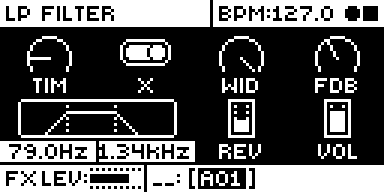
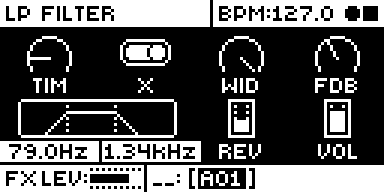
Filter Hz 1.3.0: LPF's lock box and text two pixels right
HPF and LPF are 32 pixels apart, so their 33-pixel boxes shared a column
that stock's inversion turned black, taking LPF's left margin. LPF's box
(x-14..x+18) and its locked text now sit two pixels right: a black
column parts the boxes and every text keeps white on both sides.
Tested on the unit (FL03) and in the emulator over every LPF value.

Changed region(s): [[0.25, 0.7188, 0.5312, 0.8438]]

diff --git a/sdk/analog-rytm-mkii/modules/filter-hz/TESTING.md b/sdk/analog-rytm-mkii/modules/filter-hz/TESTING.md
@@ -12,7 +12,9 @@ the audio interrupt's 1,500 blocks a second of 32 frames (rytm-emu) and the Over
 measured on hardware, 48000.4 Hz (rytm-emu's OVERBRIDGE.md).
 
 - Independent code review (asm gate, fixed-point bounds, table indexes, view walk, no libgcc
-  calls): no defects; one comment corrected.
+  calls): no defects; one comment corrected. A second review of the box table and the text site
+  (stack offsets at both sites, live registers, both paths into `0x40037b9c`, the table walk for
+  ids above 255, 0 and absent ones, alignment, branches into the patch): no defects.
 - Host check: `fx-hz.c` compiled on the host against the two tables gives the same text as a
   floating-point reference of the same equations at every index 0..1016 (HPF, LPF) and every FRQ
   value 0..127.
@@ -22,14 +24,24 @@ measured on hardware, 48000.4 Hz (rytm-emu's OVERBRIDGE.md).
   RECORDING, trig 1 held, one nudge): 2,560 frames. The text read back from every 1.3.0 frame is
   the expected one (HPF 5.00Hz..12.0kHz, LPF 5.00Hz..OPEN from 113, FRQ 974Hz..14.0kHz); every
   locked value is in a 33-pixel box (x−16..x+16) with at least a pixel of box either side and
-  nothing outside it. 1.2.1's frames show stock's numbers in stock's 27-pixel boxes. Locked HPF
-  and LPF boxes meet at one column, which shows as a one-pixel divider ([report](evidence/emulator-1.3.0.json)).
+  nothing outside it. 1.2.1's frames show stock's numbers in stock's 27-pixel boxes ([report](evidence/emulator-1.3.0.json)).
+- HPF and LPF locked together: on FX02 and FL01 the two 33-pixel boxes shared a column, which
+  stock's inversion turned black and which took LPF's left margin (`1.44kHz` in 33..62 of a box
+  33..64). LPF's box and its locked text now sit two pixels right (x−14..x+18). Emulator, FL03 (a
+  Modwerk base development build + this version, `662563cf…0e4e`) against FL01 (`beb2a227…3b6e`):
+  HPF locked at 0 and at 96 by CC, LPF locked at every value 0..127, DELAY and REVERB, 512 frames.
+  FL03: boxes at 0..32 and 34..66 every time, a black column at 33, a pixel of white or more each
+  side of every text; LPF's text pixel for pixel FL01's moved two right, HPF's and the rest of the
+  screen unchanged. FL01: 14 to 33 frames per set with no white left of LPF's text. Unlocked values
+  and PERFORMANCE edit (stock's small boxes) are unchanged: the rig's turn and perf screens equal
+  FL01's references.
 - LPF follows a lock: track HPF 0, trig 1 held, HPF locked at 39 (79.0Hz) and LPF at 40: LPF reads
-  1.34kHz, the corner for 39 + 40, not 84.8Hz (`media/delay-locked.png`). Locked the other way round
+  1.34kHz, the corner for 39 + 40, not 84.8Hz (`media/delay-locked.png`, FZ80). Locked the other way round
   (LPF first, then HPF moved), LPF's box follows HPF on the next frame.
-- FILTER page: 1.2.1's four capture plans on FZ79 (core-ar2 0.3 + 1.3.0, `96cec08b…21bf`) give
-  `filter-page.png`, `frq-440hz.png`, `frq-open.png` and `frq-locked.png` byte for byte.
-- Memory: 1,673 bytes (`.run`; 302 in 1.2.1).
+- FILTER page: 1.2.1's four capture plans on FZ80 (core-ar2 0.3 + 1.3.0, `b9bedf5e…f55f`) give
+  `filter-page.png`, `frq-440hz.png`, `frq-open.png` and `frq-locked.png` byte for byte, and
+  `reverb-frq.png` is FZ79's byte for byte too.
+- Memory: 1,745 bytes (`.run`; 302 in 1.2.1).
 - SCENE and PERFORMANCE edit (FZ79 against FH04): stock keeps a held trig's, a scene's and a
   performance macro's locks behind one lock interface, which the knob text and LPF's HPF read the
   same way. Scene 1 in edit, its pad held, DELAY HPF (38) and LPF (40) turned one step: 79.0Hz and
@@ -38,18 +50,23 @@ measured on hardware, 48000.4 Hz (rytm-emu's OVERBRIDGE.md).
   39 and 41. Performance macro 1 in edit, DELAY and REVERB: both builds show stock's signed depth
   (DELAY +5, −2; REVERB FRQ +1, HPF +2, LPF −1), which is not a frequency and stays a number.
 - Hardware, 2026-11-15, run by an automated test link on npp1993's Analog Rytm MKII (OS 1.74),
-  screens read back from the unit, not judged by a person: FL01 (a Modwerk base development build
-  + 1.3.0, `beb2a227…3b6e`, image CRC `38c7eea1`) booted from RAM in a scratch project. Six cases,
-  each run twice, 6 of 6 passing both times ([hardware report](evidence/hardware-testing-1.3.0.json)):
+  screens read back from the unit, not judged by a person: FL03 (a Modwerk base development build
+  + 1.3.0, `662563cf…0e4e`, image CRC `850a1eba`) booted from RAM in a scratch project. Seven
+  cases, 7 of 7 in each of three full runs ([hardware report](evidence/hardware-testing-1.3.0.json)):
   - DELAY turned: HPF 64 463Hz, HPF 127 12.0kHz, LPF 80 (HPF 0) 1.44kHz, LPF 96 (HPF 32) OPEN.
   - REVERB turned: FRQ 64 5.85kHz, FRQ 0 974Hz, HPF 64 463Hz, LPF 80 (HPF 0) 1.44kHz.
-  - Trig lock: HPF 39 and LPF 41 on trig 1, 79.0Hz and 1.44kHz in wide boxes; track HPF then 0 and
-    LPF moved to 42 on the held trig: 1.55kHz, from the trig's HPF, not 97.7Hz.
+  - Trig lock: HPF 39 and LPF 41 on trig 1, 79.0Hz and 1.44kHz; track HPF then 0 and LPF moved
+    to 42 on the held trig: 1.55kHz, from the trig's HPF, not 97.7Hz.
+  - Two kHz locks side by side, HPF 86 and LPF 0: 2.17kHz and 2.21kHz.
   - SCENE edit, scene 1: DELAY 84.8Hz and 1.66kHz; REVERB FRQ 5.96kHz, HPF 84.8Hz, LPF 1.66kHz.
-  - PERF edit, macro 1: stock's signed depth, +8 and −5.
-  - Reported by npp1993 while watching: two locked kHz values on HPF and LPF make their boxes touch
-    (the one-pixel divider above); kept as it is, the same format as FILTER FRQ.
-- Not tested: playback while turning, other modules beside it, saving and reloading a project, a
+  - PERF edit, macro 1: stock's signed depth, +8 and −5, in stock's small boxes.
+  - Every locked HPF box is columns 0..32 and every LPF box 34..66, a black column between them,
+    at least a pixel of white each side of each text.
+- Earlier the same day FL01 (before LPF's box moved, `beb2a227…3b6e`) passed six of these cases
+  twice. npp1993, watching, saw two locked kHz values' boxes touch; the read-back screens showed
+  LPF's text with no white on its left, which FL03 fixes. Reported by npp1993: about a minute of
+  playback on FL01 while turning the FX filters had no freezes or dropouts.
+- Not tested: playback while turning on FL03 (FL01's was clean), other modules beside it, saving and reloading a project, a
   power cycle, audio (the frequencies are from the equations, not measured).
 
 ## 1.2.1 (a wider lock box for FRQ)

diff --git a/sdk/analog-rytm-mkii/modules/filter-hz/README.md b/sdk/analog-rytm-mkii/modules/filter-hz/README.md
@@ -83,13 +83,15 @@ Requires core-ar2 0.3 on OS 1.74. Use your own original stock OS 1.74 file.
   is not open (no stock screen does this today) LPF shows the stock number.
 - The 0 to 127 numbers are no longer shown for these knobs.
 
-The module patches two sites: eight bytes in `param_value_text` at `0x400a86b4`,
-the same site as the original mod, and since 1.2.1 twenty bytes at `0x40037bea` in
-stock's knob value drawing, where it pushes a locked value's box. For FRQ and the FX
-knobs the box is 33 pixels, x−16..x+16, for every value: one pixel past the widest text
-on each side. When HPF and LPF are both locked their boxes meet at one column, which
-shows as a one-pixel divider. Every other parameter keeps stock's box. Another
-module patching either site cannot be combined with it. A module that gives these
+The module patches three sites: eight bytes in `param_value_text` at `0x400a86b4`,
+the same site as the original mod; since 1.2.1 twenty bytes at `0x40037bea` in stock's
+knob value drawing, where it pushes a locked value's box; and since 1.3.0 ten bytes at
+`0x40037b9c` in the same routine, where it places a locked value's text. For FRQ and the
+FX knobs the box is 33 pixels for every value: one pixel past the widest text on each
+side. HPF and LPF are neighbours 32 pixels apart, so LPF's box and its locked text sit
+two pixels right of the knob (x−14..x+18) and a black column parts the two boxes when
+both are locked. Unlocked values and every other parameter stay where stock draws them,
+with stock's box. Another module patching any of these sites cannot be combined with it. A module that gives these
 parameters its own text through the base's `core_params` (a replacement reverb, say)
 is asked first, so its text wins.
 
@@ -101,7 +103,7 @@ and 1.2.1's box was checked on a unit. In rytm-emu 1.3.0 shows the expected text
 value of the five FX knobs, unlocked and locked, in a 33-pixel box with nothing outside
 it; the FILTER page's frames are byte for byte 1.2.1's. On a unit, 1.3.0's DELAY and REVERB
 values, trig and scene locks (LPF following the locked HPF) and performance edit's stock depth
-read back as expected. Memory: 1,673 bytes (302 in
+read back as expected. Memory: 1,745 bytes (302 in
 1.2.1) of the 128 KiB shared mod area. There is no code in the audio, sequencer or tick
 paths.
 
@@ -117,8 +119,8 @@ Code: [GPL-2.0-only](LICENSE), as rytm-mods-src. `src/filter-hz.s` and
 `include/ar2-1.74.inc` are rytm2_mods' `filter-hz/os1.74/filter-hz.s` and
 `include/ar2-1.74.inc` at `afd461d` (v1.2), byte for byte, except that 1.2.1 adds
 `filter_hz_box` and its two constants to the source and 1.3.0 the FX ids, the call to
-`src/fx-hz.c` and the list of ids with the wider box. `src/fx-hz.c` is new in 1.3.0. The
-source's site comment still names the OS 1.73 address, as upstream's does. The include and
+`src/fx-hz.c`, the table of box widths and `filter_hz_text_x`, which moves LPF's locked
+text. `src/fx-hz.c` is new in 1.3.0. The source's site comment still names the OS 1.73 address, as upstream's does. The include and
 `fx-hz.c` name firmware routines and tables by address only; no stock table is copied.
 The upstream README is in [upstream/README.md](upstream/README.md). Screens show
 Elektron's interface solely to document the modification. No Elektron firmware is included.
@@ -126,8 +128,8 @@ Elektron's interface solely to document the modification. No Elektron firmware i
 ## Screens and audio
 
 These captures are rytm-emu frames of the released core-ar2 0.3 and Filter Hz on stock
-OS 1.74. The first four are the same files on FZ74 (1.2.0), FZ78 (1.2.1) and FZ79 (1.3.0);
-the last two are FZ79's. See [capture provenance](media/capture.json) for hashes and
+OS 1.74. The first four are the same files on FZ74 (1.2.0), FZ78 (1.2.1) and FZ80 (1.3.0);
+the last two are FZ80's. See [capture provenance](media/capture.json) for hashes and
 inputs. The mod changes no sound, so there is no audio demonstration.
 
 ![FILTER page with ATK, DEC, SUS and REL above FRQ, RES, TYP and ENV.](media/filter-page.png)
@@ -150,6 +152,6 @@ Lock FRQ on a trig (hold the trig, turn FRQ): the white box behind the value is 
 
 On the FX track's REVERB page (SMPL), turn FRQ: it reads the corner of the reverb's treble shelf, 5.85kHz at the stock value 64. HPF and LPF read in Hz too.
 
-![DELAY page with a held trig; HPF and LPF read 79.0Hz and 1.34kHz in two white inverted boxes under the HPF/LPF graph.](media/delay-locked.png)
+![DELAY page with a held trig; HPF and LPF read 79.0Hz and 1.34kHz in two white inverted boxes, a black column between them, under the HPF/LPF graph.](media/delay-locked.png)
 
-On the DELAY page, HPF and LPF locked on a held trig: 79.0Hz and 1.34kHz, each in its own wide box. LPF follows the trig's locked HPF, as the stock filter does.
+On the DELAY page, HPF and LPF locked on a held trig: 79.0Hz and 1.34kHz, each in its own wide box with a black column between them. LPF follows the trig's locked HPF, as the stock filter does.
